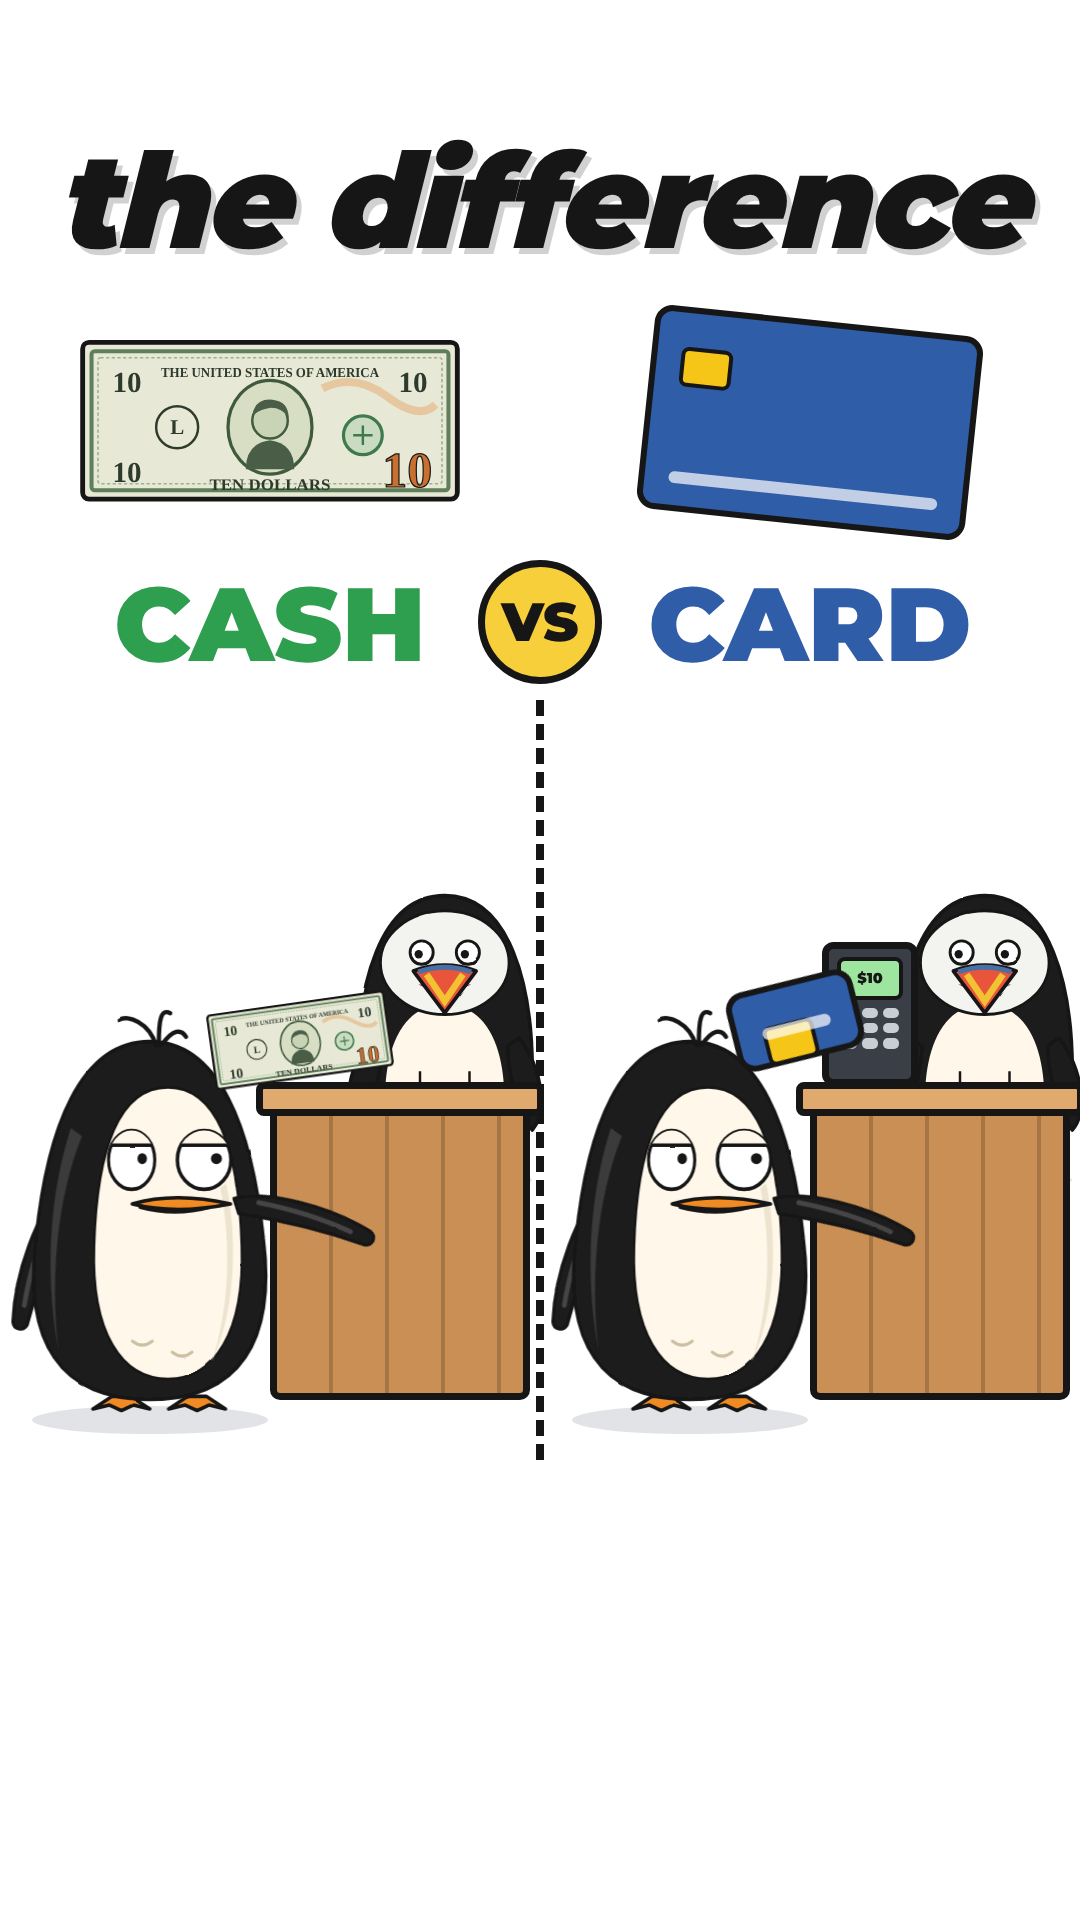
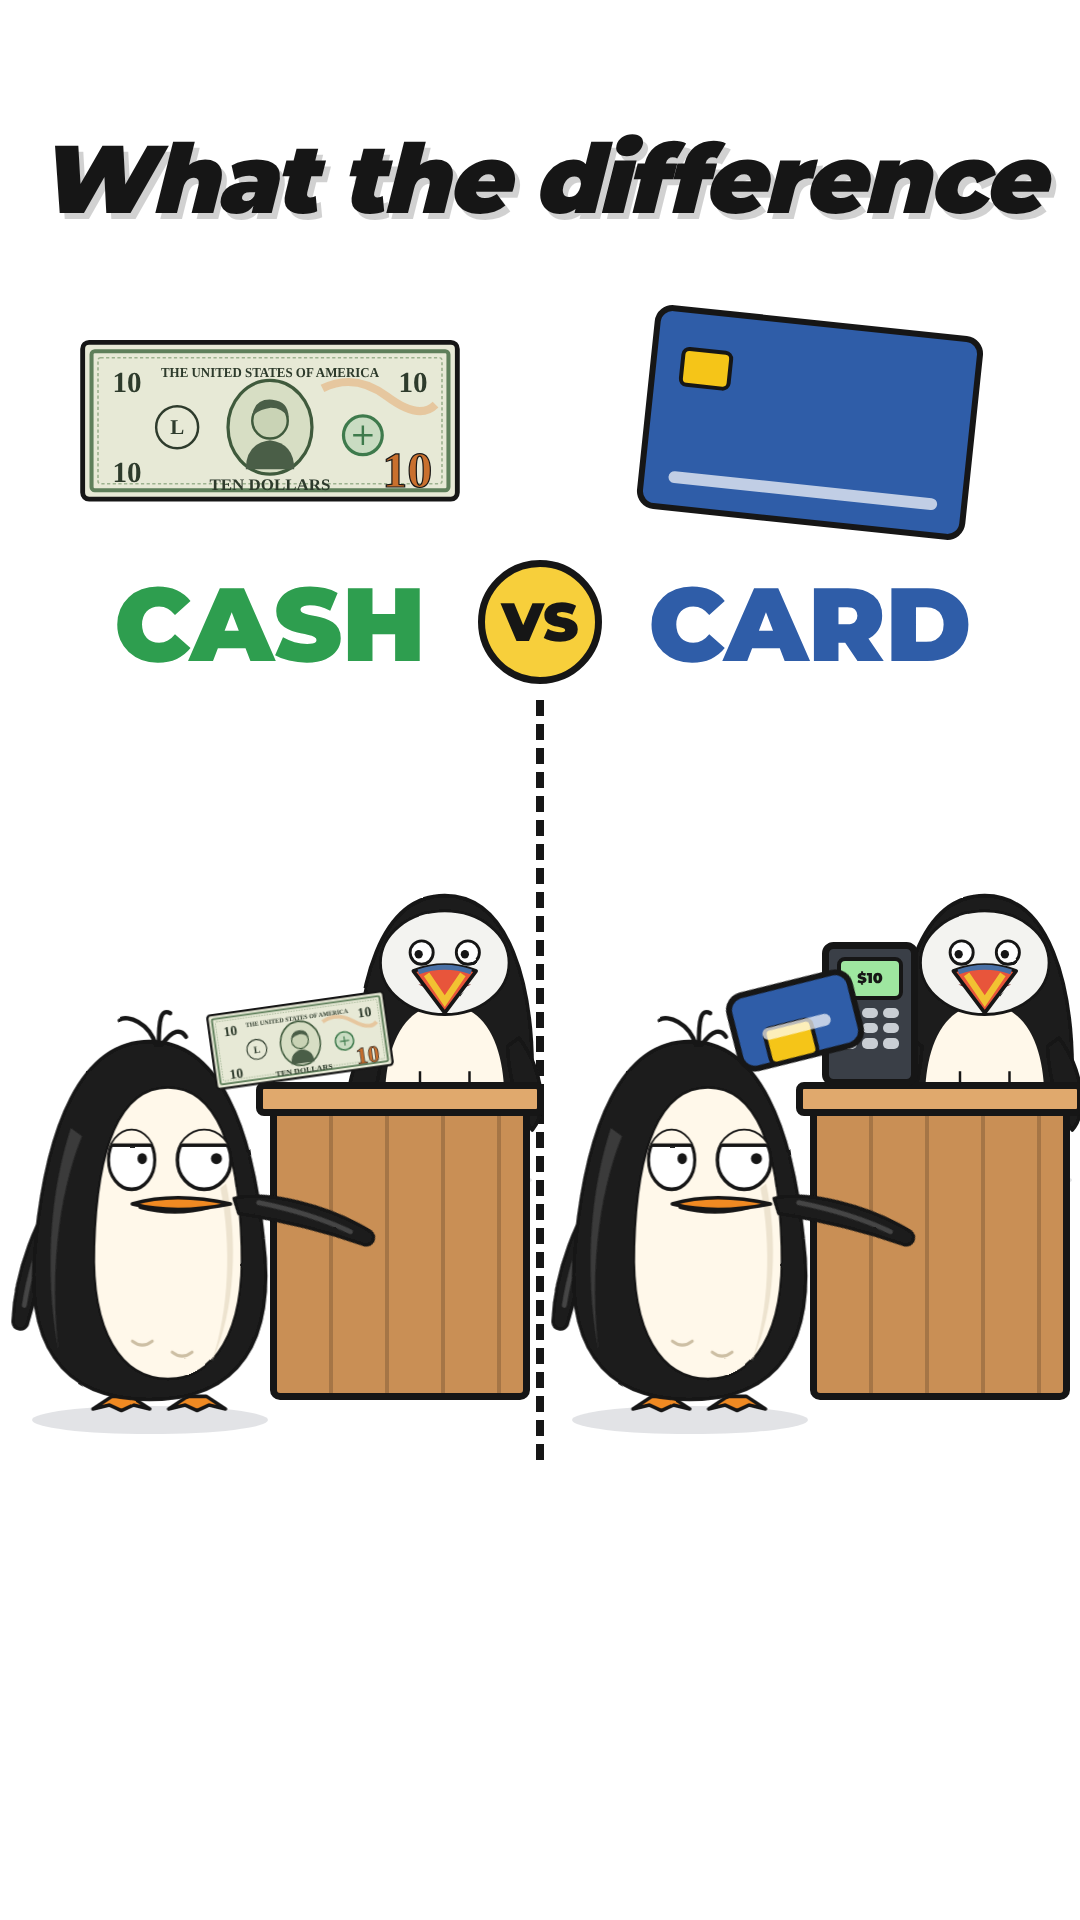
EP5 hook v2: title 'What the difference' (user)
Claude-Session: https://claude.ai/code/session_01UtmUirj6KKr4NCkNXfhSVB

Changed region(s): [[0.0306, 0.0625, 0.9778, 0.1562]]

diff --git a/studio/src/videos/dougCashCard.tsx b/studio/src/videos/dougCashCard.tsx
@@ -143,8 +143,8 @@ const DiffSide = ({side}: {side: 'cash' | 'card'}) => { const o = side === 'cash
   </>; };
 export const DougCashCardHookV2 = () => <AbsoluteFill style={{background: '#fff'}}>
   <Fonts /><HandFont />
-  <div style={{position: 'absolute', left: 0, top: 120, width: 1080, textAlign: 'center', fontFamily: 'Montserrat', fontWeight: 900, fontStyle: 'italic', fontSize: 132,
-    color: INK, letterSpacing: -4, textShadow: '5px 6px 0 rgba(0,0,0,0.18)'}}>the difference</div>
+  <div style={{position: 'absolute', left: 0, top: 120, width: 1080, textAlign: 'center', fontFamily: 'Montserrat', fontWeight: 900, fontStyle: 'italic', fontSize: 96, whiteSpace: 'nowrap',
+    color: INK, letterSpacing: -3, textShadow: '5px 6px 0 rgba(0,0,0,0.18)'}}>What the difference</div>
   <div style={{position: 'absolute', left: 270 - 190, top: 340}}><RealTen w={380} /></div>
   <div style={{position: 'absolute', left: 810 - 165, top: 320}}><CardIcon w={330} /></div>
   <div style={{position: 'absolute', left: 0, top: 560, width: 540, textAlign: 'center', fontFamily: 'Montserrat', fontWeight: 900, fontSize: 104, color: GREEN}}>CASH</div>
